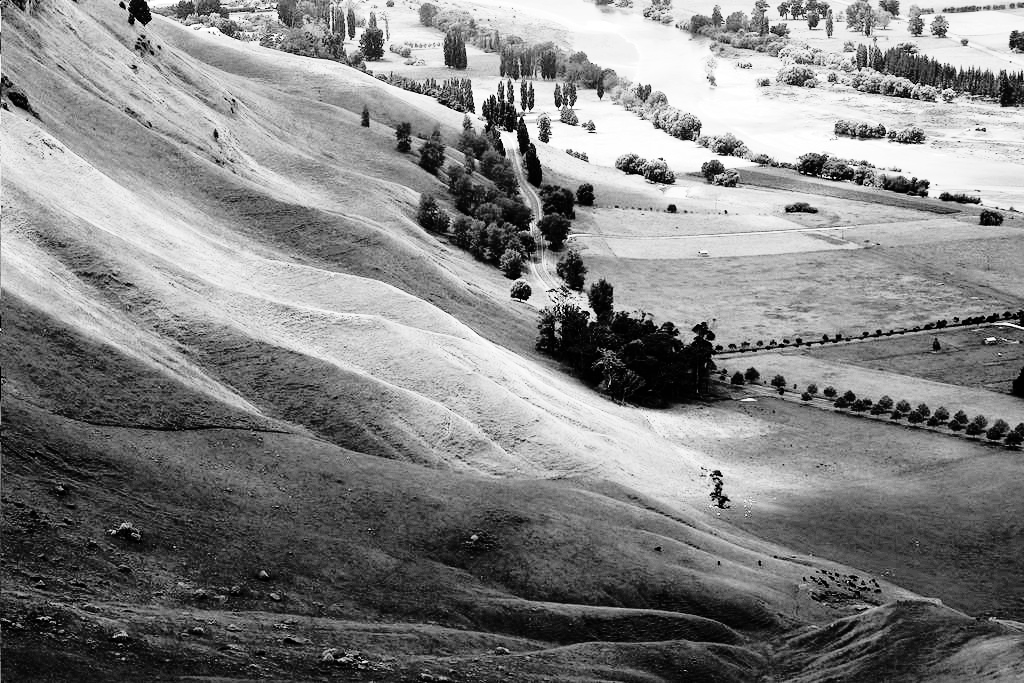
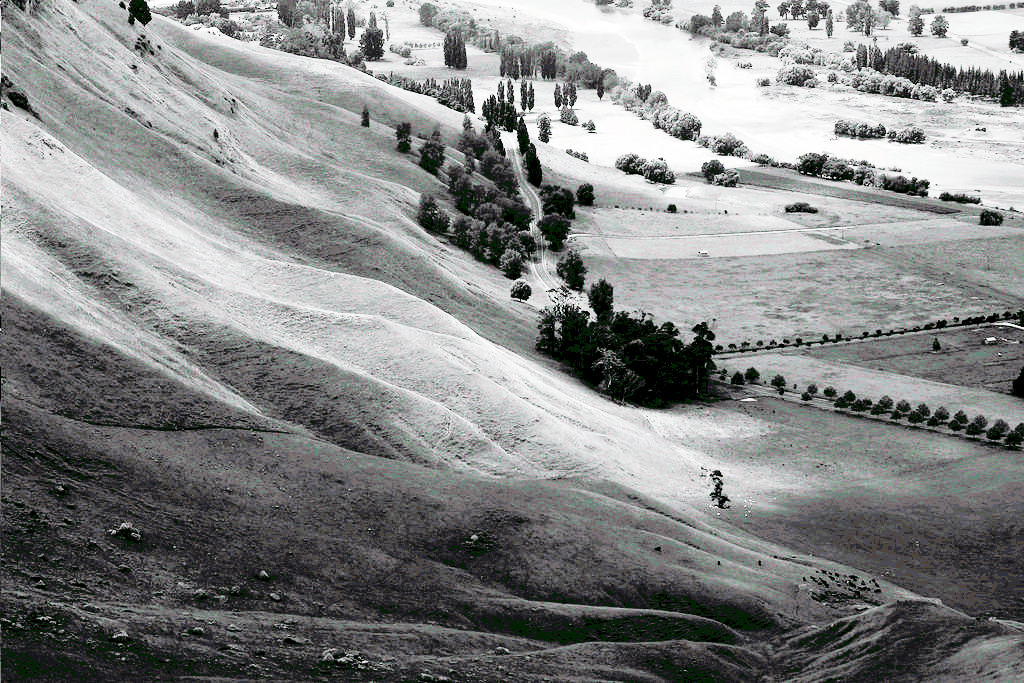
RGB -> CIEXYZ

diff --git a/src/main/java/org/example/ImageProcessor.java b/src/main/java/org/example/ImageProcessor.java
@@ -1,5 +1,7 @@
 package org.example;
 
+import java.awt.color.ColorSpace;
+import java.awt.image.ColorConvertOp;
 import javax.imageio.ImageIO;
 import java.awt.*;
 import java.awt.image.BufferedImage;
@@ -94,14 +96,13 @@ public class ImageProcessor{
         }
     }
 
-    public void calculateHistogram() throws InterruptedException {
+    public void equalize() throws InterruptedException {
         int cores = Runtime.getRuntime().availableProcessors();
         int chunk = height / cores;
 
         int[][] rhistogram = new int[cores][256];
         int[][] ghistogram = new int[cores][256];
         int[][] bhistogram = new int[cores][256];
-
 
         Thread threads[] = new Thread[cores];
         for (int i = 0; i < cores; ++i) {
@@ -180,6 +181,98 @@ public class ImageProcessor{
         }
 
 }
+
+
+    public void equalizeToCIEXYZ() throws InterruptedException {
+        int cores = Runtime.getRuntime().availableProcessors();
+        int chunk = height / cores;
+
+        ColorSpace RGB = ColorSpace.getInstance(ColorSpace.CS_sRGB);
+        ColorSpace CIEXYZ = ColorSpace.getInstance(ColorSpace.CS_CIEXYZ);
+
+        ColorConvertOp op = new ColorConvertOp(RGB, CIEXYZ, null);
+        image = op.filter(image, null);
+
+        int[][] rhistogram = new int[cores][256];
+        int[][] ghistogram = new int[cores][256];
+        int[][] bhistogram = new int[cores][256];
+
+        Thread threads[] = new Thread[cores];
+        for (int i = 0; i < cores; ++i) {
+            int threadIndex = i;
+            threads[i] = new Thread(() -> {
+                Arrays.fill(rhistogram[threadIndex], 0);
+                Arrays.fill(ghistogram[threadIndex], 0);
+                Arrays.fill(bhistogram[threadIndex], 0);
+
+                int startline = threadIndex * chunk;
+                int endline = (threadIndex == cores - 1) ? height : startline + chunk;
+
+                for (int y = startline; y < endline; y++) {
+                    for (int x = 0; x < width; x++) {
+                        int rgb = image.getRGB(x, y);
+
+                        int r = (rgb >> 16) & 0xFF;
+                        ++rhistogram[threadIndex][r];
+
+                        int g = (rgb >> 8) & 0xFF;
+                        ++ghistogram[threadIndex][g];
+
+                        int b = rgb & 0xFF;
+                        ++bhistogram[threadIndex][b];
+                    }
+                }
+            });
+        }
+        for (int i = 0; i < cores; ++i)
+            threads[i].start();
+        for (int i = 0; i < cores; ++i)
+            threads[i].join();
+
+        int[] finalRedHistogram = new int[256];
+        int[] finalGreenHistogram = new int[256];
+        int[] finalBlueHistogram = new int[256];
+
+        for (int i = 0; i < cores; ++i)
+            for (int j = 0; j < 256; ++j){
+                finalRedHistogram[j] += rhistogram[i][j];
+                finalGreenHistogram[j] += ghistogram[i][j];
+                finalBlueHistogram[j] += bhistogram[i][j];
+            }
+
+        //count distributors
+        int[] rLut = getLut(finalRedHistogram);
+        int[] gLut = getLut(finalGreenHistogram);
+        int[] bLut = getLut(finalBlueHistogram);
+
+
+        for(int i=0; i<image.getWidth(); i++) {
+            for(int j=0; j<image.getHeight(); j++) {
+
+                // Get pixels by R, G, B
+                int alpha = new Color(image.getRGB (i, j)).getAlpha();
+                int red = new Color(image.getRGB (i, j)).getRed();
+                int green = new Color(image.getRGB (i, j)).getGreen();
+                int blue = new Color(image.getRGB (i, j)).getBlue();
+
+                // Set new pixel values using the histogram lookup table
+                red = rLut[red];
+                green = gLut[green];
+                blue = bLut[blue];
+
+                // Return back to original format
+                int newPixel = colorToRGB(alpha, red, green, blue);
+
+                // Write pixels into image
+                image.setRGB(i, j, newPixel);
+
+            }
+        }
+        ColorConvertOp toRGB = new ColorConvertOp(CIEXYZ, RGB, null);
+        image = toRGB.filter(image, null);
+
+
+    }
     private static int colorToRGB(int alpha, int red, int green, int blue) {
 
         int newPixel = 0;

diff --git a/src/main/java/org/example/Main.java b/src/main/java/org/example/Main.java
@@ -9,7 +9,7 @@ public class Main {
         ImageProcessor imageProcessor = new ImageProcessor();
 
         long start = System.currentTimeMillis();
-        imageProcessor.load("/Users/kuba/Downloads/Unequalized_Hawkes_Bay_NZ.jpg");
+        imageProcessor.load("/Users/kuba/IdeaProjects/ImageProcessing/src/main/java/org/example/Unequalized_Hawkes_Bay_NZ.jpg");
         //imageProcessor.addBrightnessWithThreads(10);
 //        long finish = System.currentTimeMillis();
 //        long time1 = finish - start;
@@ -22,7 +22,7 @@ public class Main {
 //
 //        System.out.println(String.format("withoutThreads = %d,  with threads = %d", time1, time2));
 
-        imageProcessor.calculateHistogram();
+        imageProcessor.equalizeToCIEXYZ();
         imageProcessor.saveImage("/Users/kuba/IdeaProjects/ImageProcessing/src/main/java/output.png");
 
 
